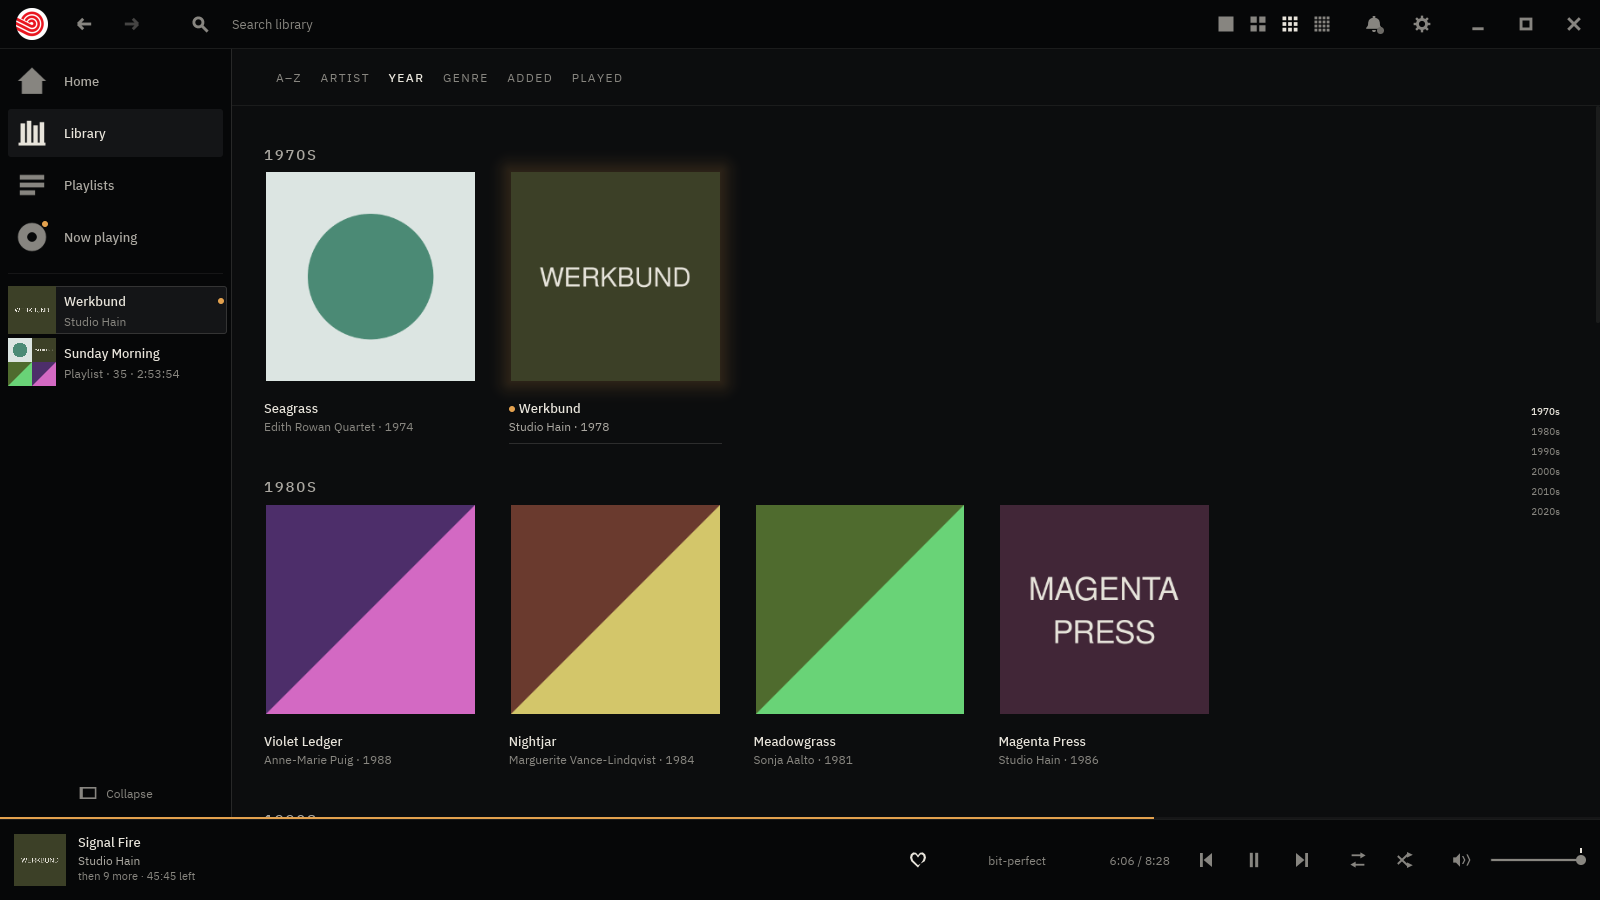
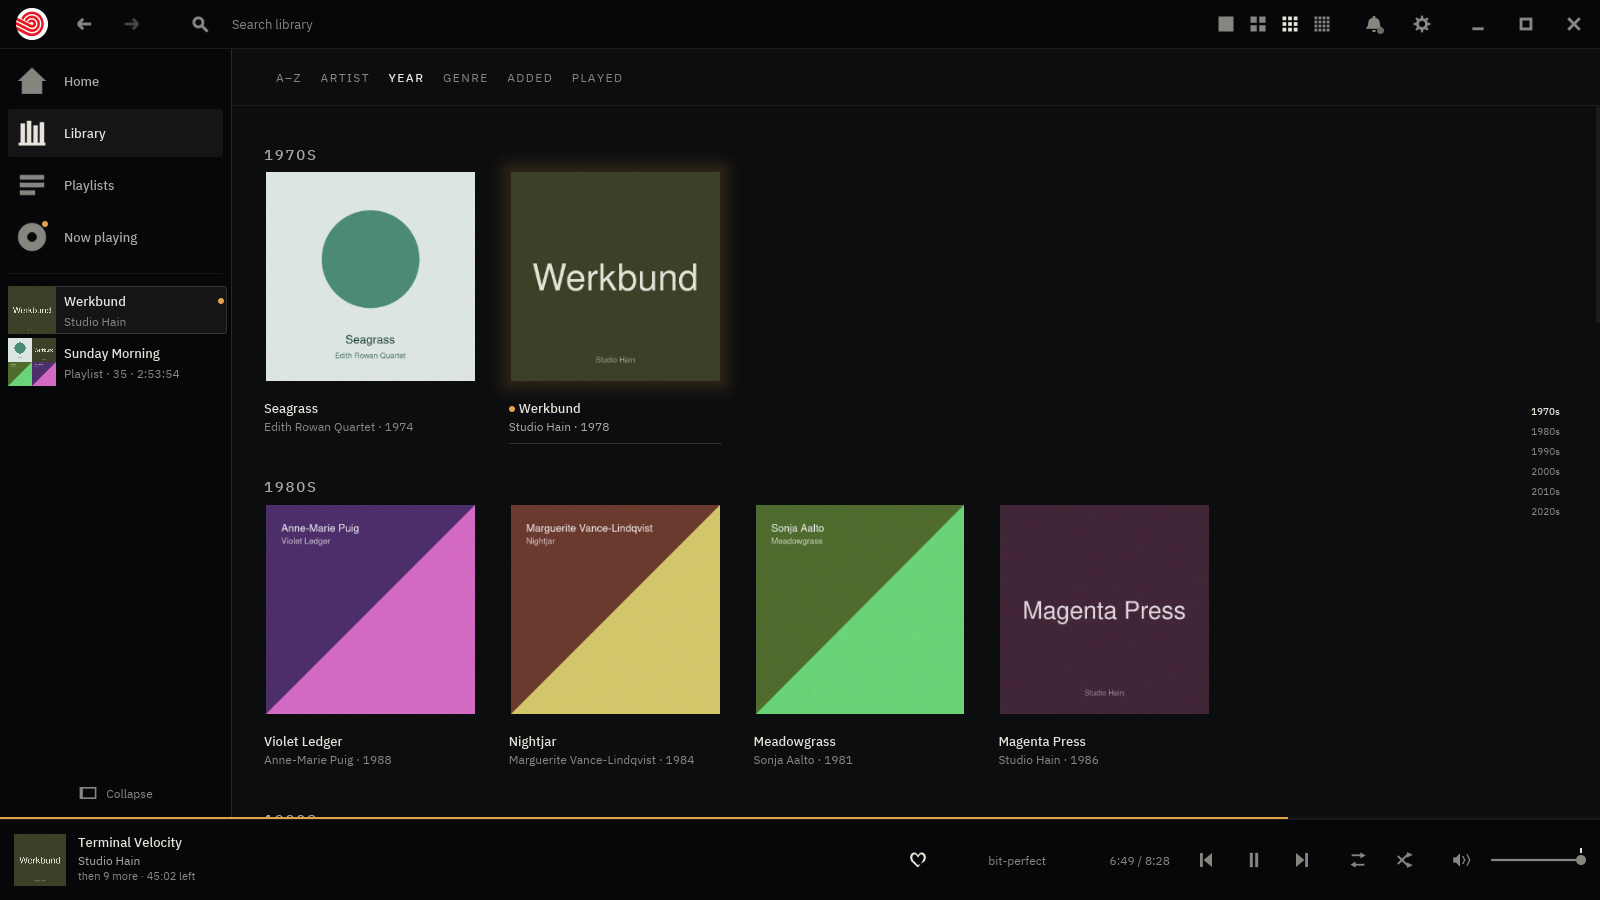
Screenshots that look like records, and three more of them
"Ideally the screenshots could use my library and/or look realistic at least.
also cover more features."

Not the real library: docs/screenshots/ is served on Flathub and in the README,
and a store page is not the place to publish somebody's record collection or
somebody else's cover art. `FIX=` still points the capture anywhere for a
private look. So the fixture is realistic instead.

Sleeves carry words. Six abstract families on flat fields is a picture of a
colour scheme rather than of a record — almost every real sleeve has the
artist or the title printed somewhere, and a wall of untitled shapes is the
strongest single tell that a screenshot is a fixture. Every family sets its own
type, in its own weight and place, with a little grain over the lot.

Track titles stopped being `Blue Hour 3`. Forty-eight of them, strided so an
album never repeats one inside itself — the trailing index was the other tell,
in every frame it appeared in.

Both were already being done, badly, by the capture after the fact; that
duplication is gone and the generator owns it. The stale-fixture guard is a
hash of the generator now, because "the directory exists" answered a question
that meant to ask whether it was current — and it cost a confused half hour
photographing the old wall.

Three new frames: a record's own page, search, and the smart playlist. The last
needs a second pass against a different fixture and has to: every sample in the
[…]

diff --git a/docs/design/impl/what-baz-heard/README.md b/docs/design/impl/what-baz-heard/README.md
@@ -7,10 +7,10 @@ hour becoming legible, and it is legible because every line on it is a
 accept.
 
 `capture.sh` runs the shipping binary headless against
-`docs/design/impl/contour/mkfixture-varied.sh`'s 24-track fixture, whose
+`docs/design/impl/contour/mkfixture-varied.sh`'s 48-track fixture, whose
 properties are known in advance — tempo and loudness walk from 62 BPM at
-amplitude 0.18 to 168 BPM at 1.00, every file is a 220 Hz tone under a click
-train, every file is tagged `GENRE=Electronic`. That is what makes these
+amplitude 0.18 to 168 BPM at 1.00 across twelve records, every file is a
+220 Hz tone under a click train, every file is tagged `GENRE=Electronic`. That is what makes these
 screenshots evidence rather than decoration: the fixture's own construction
 says what the page must say, and the page says it.
 
@@ -28,7 +28,7 @@ check out:
 |---|---|
 | Quietest and Slowest — Ini Kovac | record 01, 62 BPM at amplitude 0.18 — the bottom of both walks |
 | Loudest and Fastest — Studio Hain | record 06, 168 BPM at 1.00 — the top of both |
-| Tempo runs 66 to 176 BPM, centred on 117 | brackets the fixture's 58–172 BPM span, p05–p95 |
+| Tempo runs 71 to 169 BPM, centred on 124 | brackets the fixture's 58–172 BPM span, p05–p95 |
 | barely varies in brightness and texture | one tone at one frequency, so there is nothing on either axis to vary |
 
 The last row is the one worth dwelling on. A rank axis spreads whatever it is
@@ -95,7 +95,7 @@ chance against their own genre, so that sentence claimed a precision the
 retrieval does not have — design note 23 §4's charge, and the worst kind
 available, because it is a dishonesty rather than a limitation.
 
-It now reads **`Baz drew 24 of 24 to choose from`** — the same arithmetic with
+It now reads **`Using 48 of your 48 songs`** — the same arithmetic with
 the claim removed, and the three nearest carry the grading out loud: *if these are not what you meant, it has not understood the
 phrase.* The titles are the only part of that readout anybody can check,
 which is why they are the part that asks to be checked.

diff --git a/README.md b/README.md
@@ -58,6 +58,15 @@ worth looking at, without any of their clouds.
 |---|---|
 | ![Now playing](docs/screenshots/now-playing.png) | ![A playlist](docs/screenshots/playlist.png) |
 | **Now playing** — cover, rotating jewel case, or a spectrum-led room with no album object. | **A playlist** — thirty-five songs off four records, and one `.m3u8` on disk. |
+| ![A record's page](docs/screenshots/album.png) | ![Search](docs/screenshots/search.png) |
+| **A record** — the sleeve at size, the run in play order, and what the file actually is. | **Search** — app-wide, from any place, reaching tracks as well as records. |
+
+![A smart playlist: draw how it should move](docs/screenshots/smart-playlist.png)
+
+**A smart playlist.** Draw how the music should move from the first song to
+the last and baz fills it from your own collection, using what the songs
+actually sound like rather than what their tags say. Every track is analysed on
+your own machine, and none of your audio leaves it.
 
 ![Home](docs/screenshots/home.png)
 
